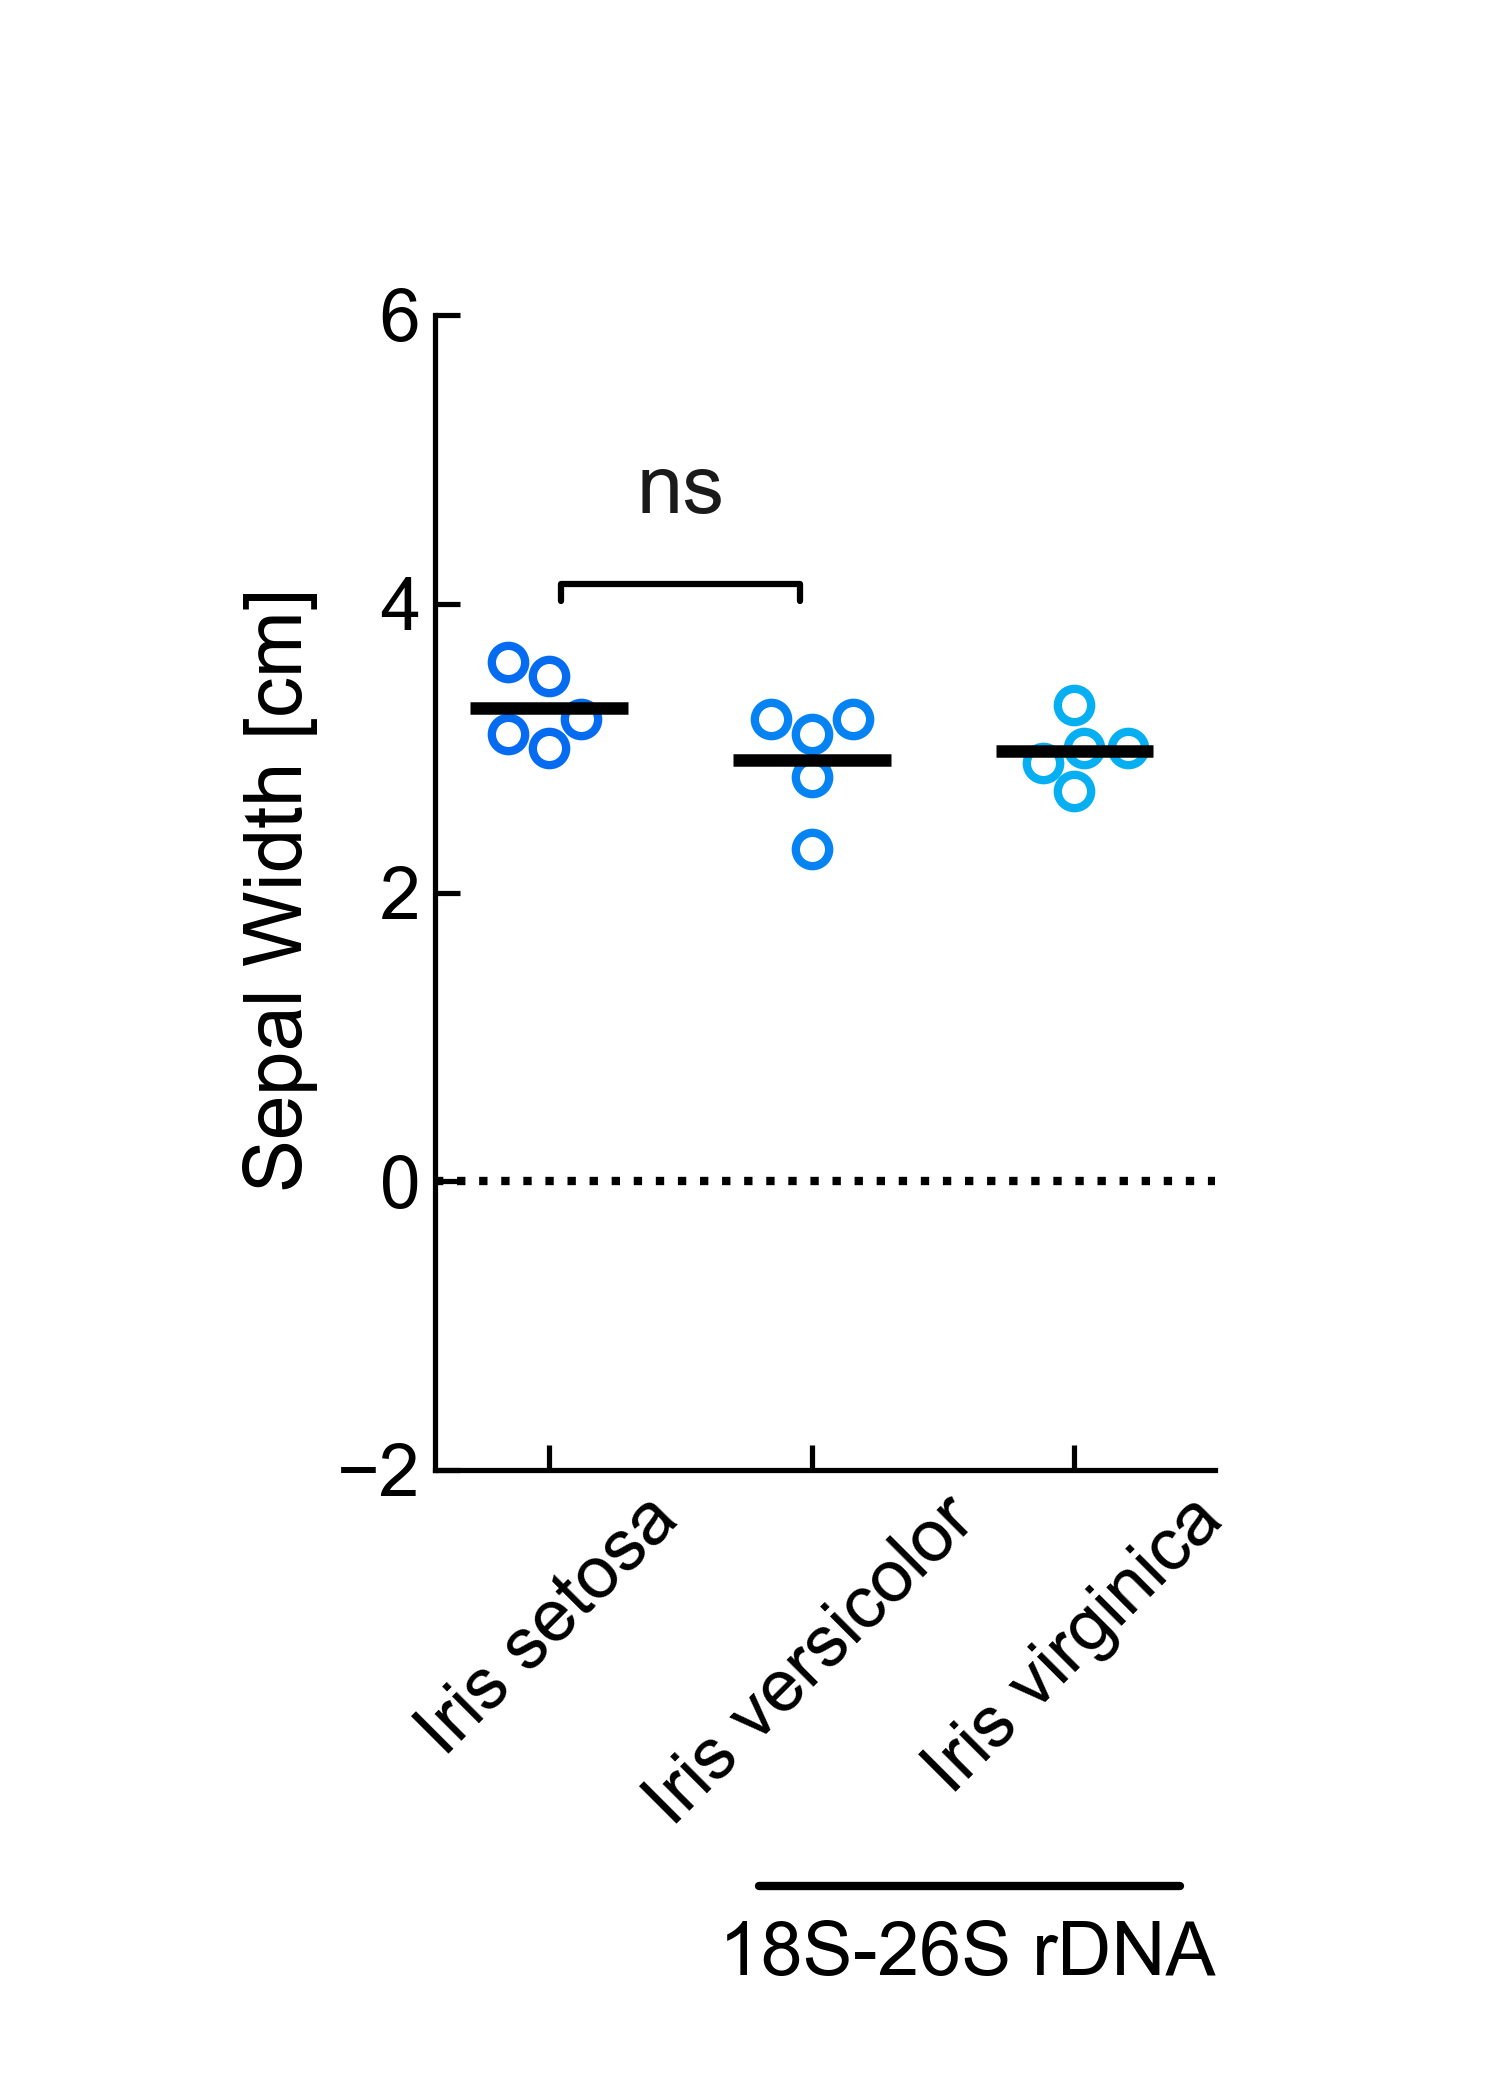
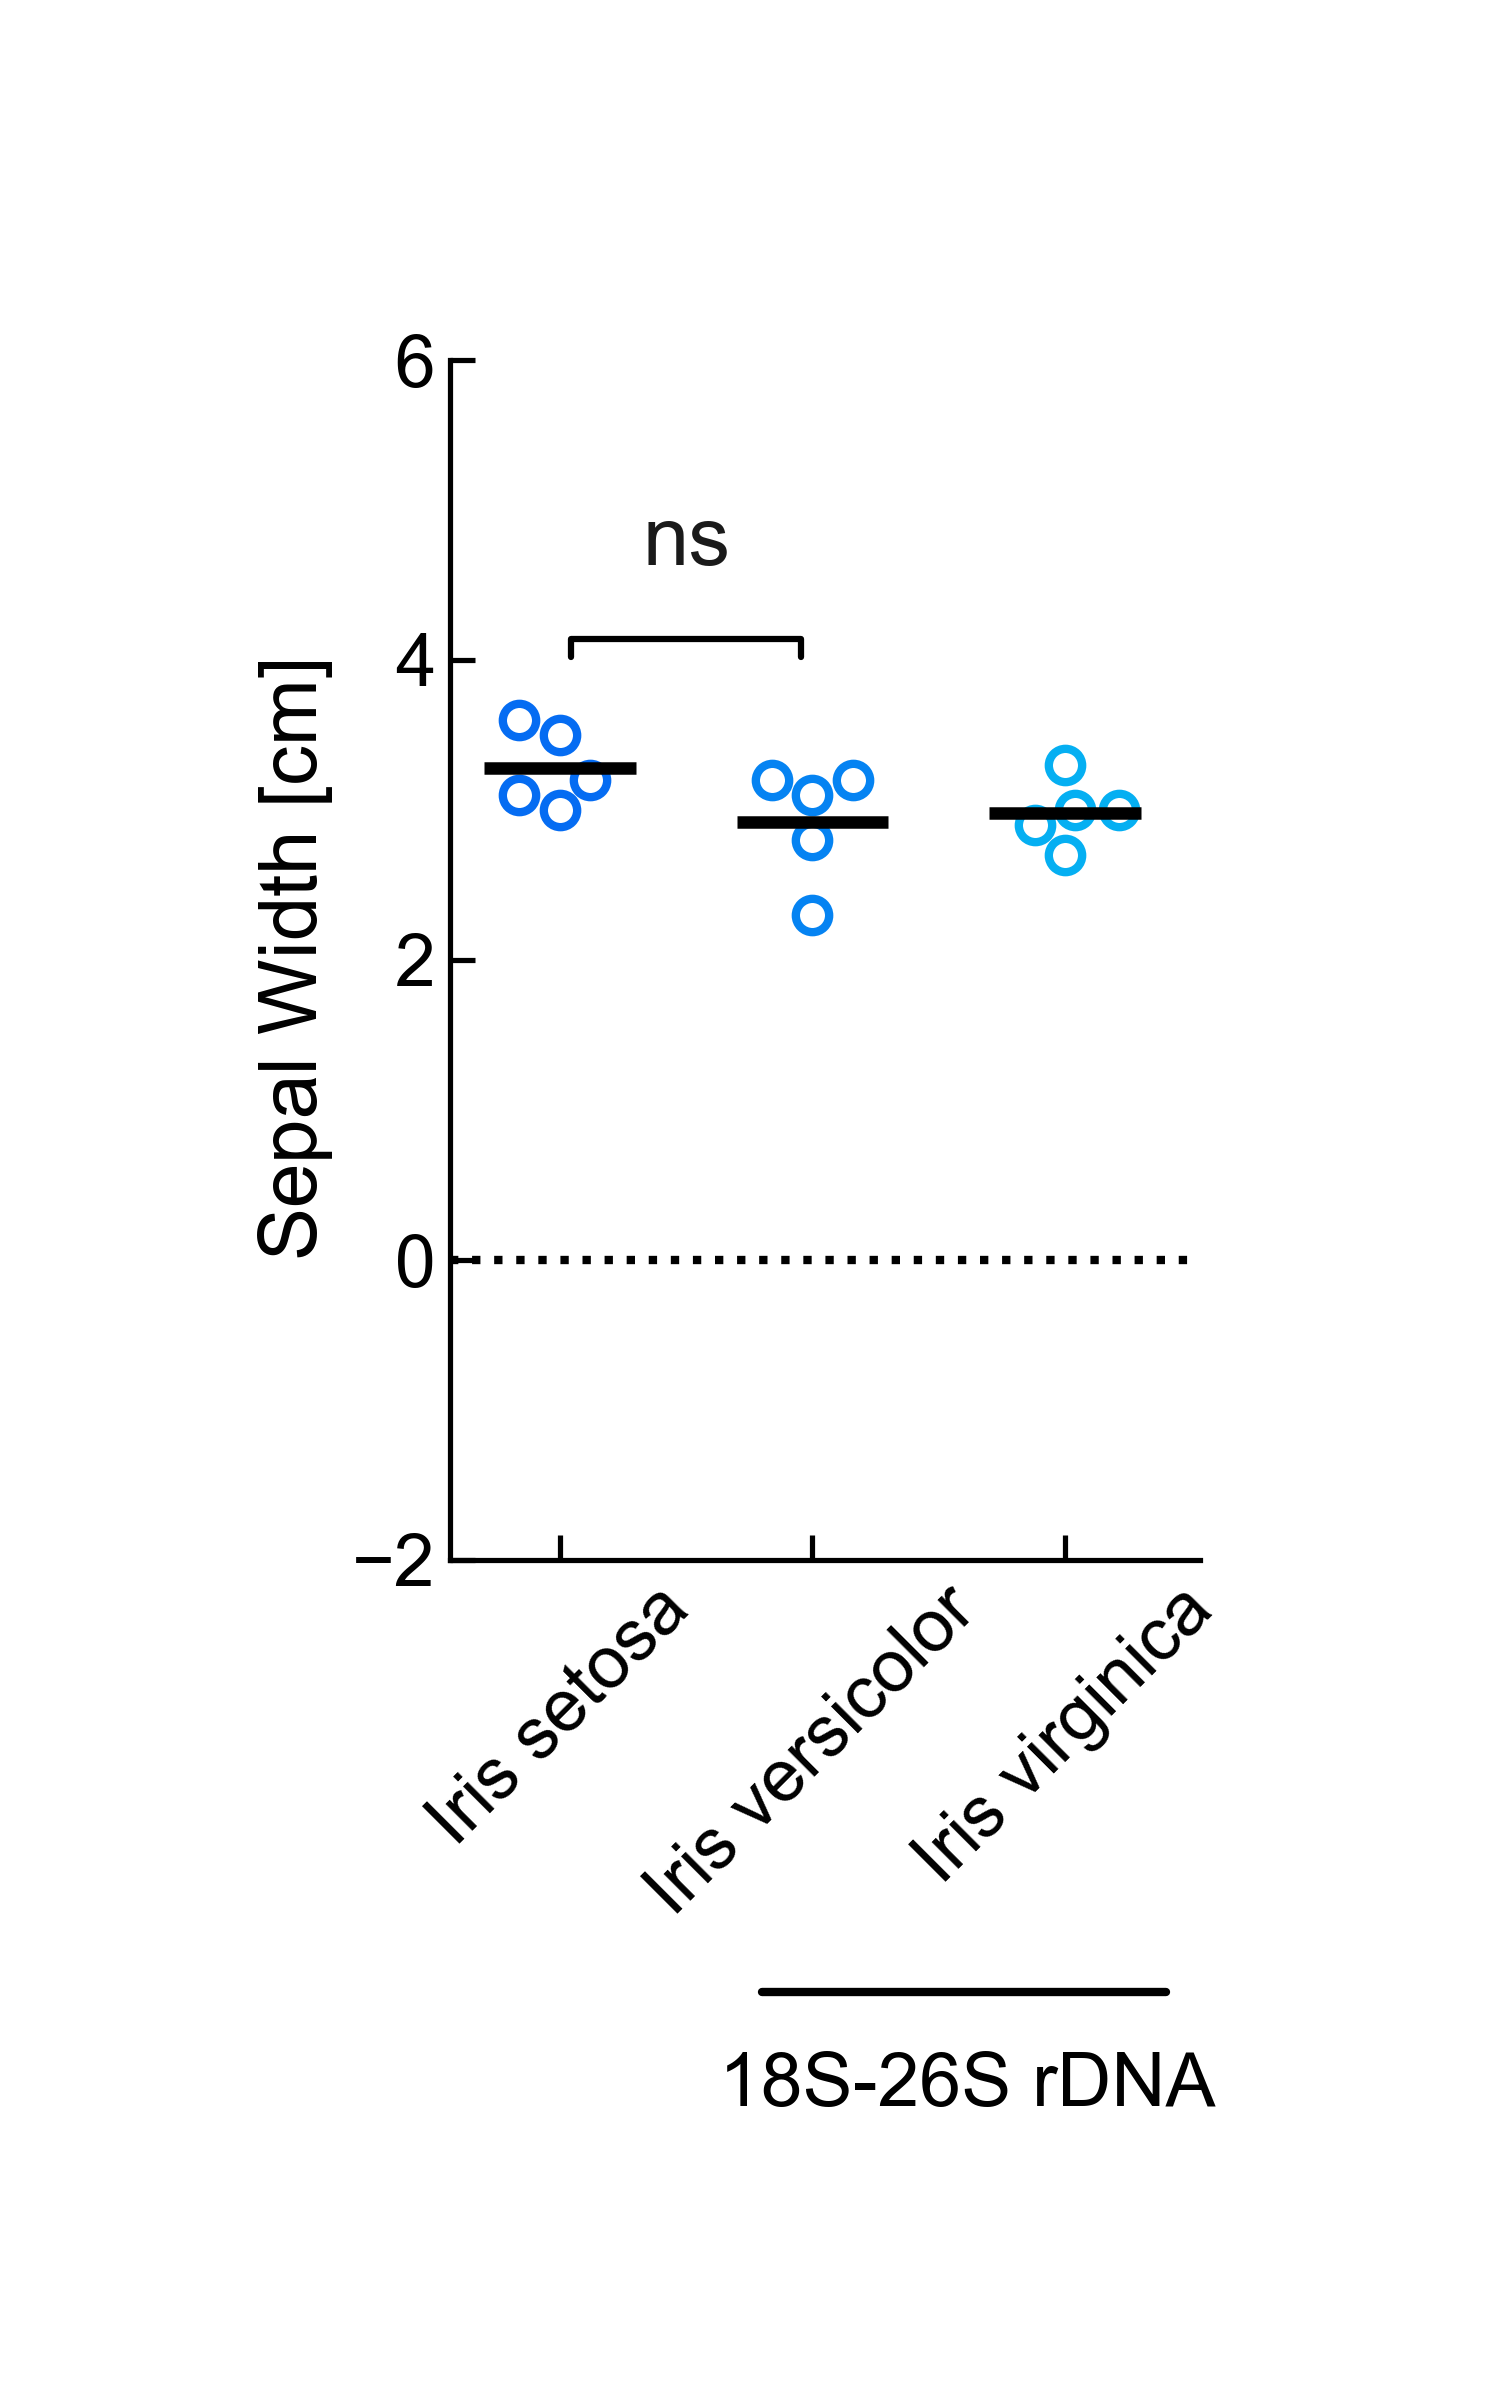
Improved spacing.

diff --git a/mean_plot.py b/mean_plot.py
@@ -4,6 +4,7 @@ demonstration, and includes example annotations for significance based on statis
 The appearance of the plot is customized and the final figure is saved.
 """
 import os
+import numpy as np
 import pandas as pd
 import matplotlib.pyplot as plt
 import seaborn as sns
@@ -32,7 +33,7 @@ def generate_plot(df,
 
     with plt.rc_context({'axes.edgecolor': 'black'}):
 
-        fig = plt.figure(figsize=(5, 7))
+        fig = plt.figure(figsize=(5, 8))
 
         # box plot
         box_width = 0.6
@@ -92,6 +93,9 @@ def generate_plot(df,
             # set y ranges
             ax.set(ylim=(plot_kwargs['dependent_variable_range'][0],
                          plot_kwargs['dependent_variable_range'][1]))
+            plt.yticks(np.linspace(plot_kwargs['dependent_variable_range'][0],
+                                plot_kwargs['dependent_variable_range'][1],
+                                num=5).tolist())            
 
         # set x and y labels
         ax.set_xlabel('')
@@ -128,7 +132,7 @@ def generate_plot(df,
         # adjust subplots spacing
         # if subplots are added, can include, for e.g., 'wspace=0.4, hspace=0.4'
         # to control padding between subplots
-        plt.subplots_adjust(bottom=0.3, top=0.85, left=0.29, right=0.81)
+        plt.subplots_adjust(bottom=0.35, top=0.85, left=0.3, right=0.8)
 
         # add global title
         if 'super_title' in plot_kwargs:
@@ -138,7 +142,7 @@ def generate_plot(df,
         trans = ax.get_xaxis_transform()
         ax.plot([0.8, 2.4], [-.36, -.36],
                 color="black", transform=trans, clip_on=False, linewidth=2)
-        plt.figtext(0.645, 0.085, "18S-26S rDNA",
+        plt.figtext(0.645, 0.145, "18S-26S rDNA",
                     ha="center", va="top", fontsize=18, color="black")
 
 

diff --git a/LICENSE.md b/LICENSE.md
@@ -1,0 +1,22 @@
+
+The MIT License (MIT)
+
+Copyright (c) 2026 Charles Belanger Nzakimuena
+
+Permission is hereby granted, free of charge, to any person obtaining a copy
+of this software and associated documentation files (the "Software"), to deal
+in the Software without restriction, including without limitation the rights
+to use, copy, modify, merge, publish, distribute, sublicense, and/or sell
+copies of the Software, and to permit persons to whom the Software is
+furnished to do so, subject to the following conditions:
+
+The above copyright notice and this permission notice shall be included in all
+copies or substantial portions of the Software.
+
+THE SOFTWARE IS PROVIDED "AS IS", WITHOUT WARRANTY OF ANY KIND, EXPRESS OR
+IMPLIED, INCLUDING BUT NOT LIMITED TO THE WARRANTIES OF MERCHANTABILITY,
+FITNESS FOR A PARTICULAR PURPOSE AND NONINFRINGEMENT. IN NO EVENT SHALL THE
+AUTHORS OR COPYRIGHT HOLDERS BE LIABLE FOR ANY CLAIM, DAMAGES OR OTHER
+LIABILITY, WHETHER IN AN ACTION OF CONTRACT, TORT OR OTHERWISE, ARISING FROM,
+OUT OF OR IN CONNECTION WITH THE SOFTWARE OR THE USE OR OTHER DEALINGS IN THE
+SOFTWARE.